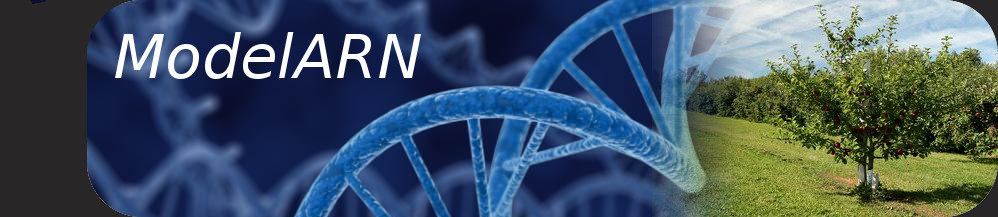
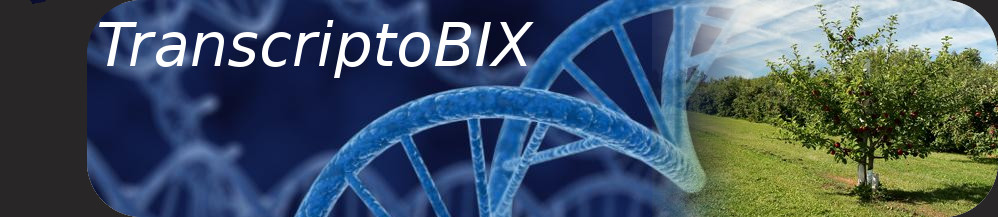
name changed to transcriptobix and slogan modified

Changed region(s): [[0.0932, 0.0829, 0.5281, 0.3594], [0.3106, 0.0829, 0.3417, 0.1106]]

diff --git a/web/resources/css/style.css b/web/resources/css/style.css
@@ -78,7 +78,7 @@ h5 {font-size:10px}
 #logincontrol {width:632px; height:31px; float:right; display:inline; padding:15px 0 0 0; text-align:center; color:#888}
 #logincontrols:after {content:"."; display:block; height:0; clear:both; visibility:hidden}
 #headerimage {width:998px; height:233px; background:url('../images/bg_header.jpg') no-repeat top left; float:left; position:relative}
-#slogan {color:#ffffff; font:normal 20px arial,serif; position:absolute; bottom:35px; left:320px}
+#slogan {color:#ffffff; font:normal 20px arial,serif; position:absolute; bottom:35px; left:320px; text-shadow: 2px 2px #000000}
 #registerFloater {width:189px; height:59px; margin:128px 0 0 0; background:url('../images/download.gif') no-repeat top left; float:left}
 #download-text {color:#fff; font:bold 15px/22px arial,serif; width:187px; display:block; text-align:center; padding:8px 2px 0 0}
 #icons {width:97px; height:90px; background:url('../images/bg_icon_lines.gif') no-repeat top right; margin:126px 0 0 0; float:right}
